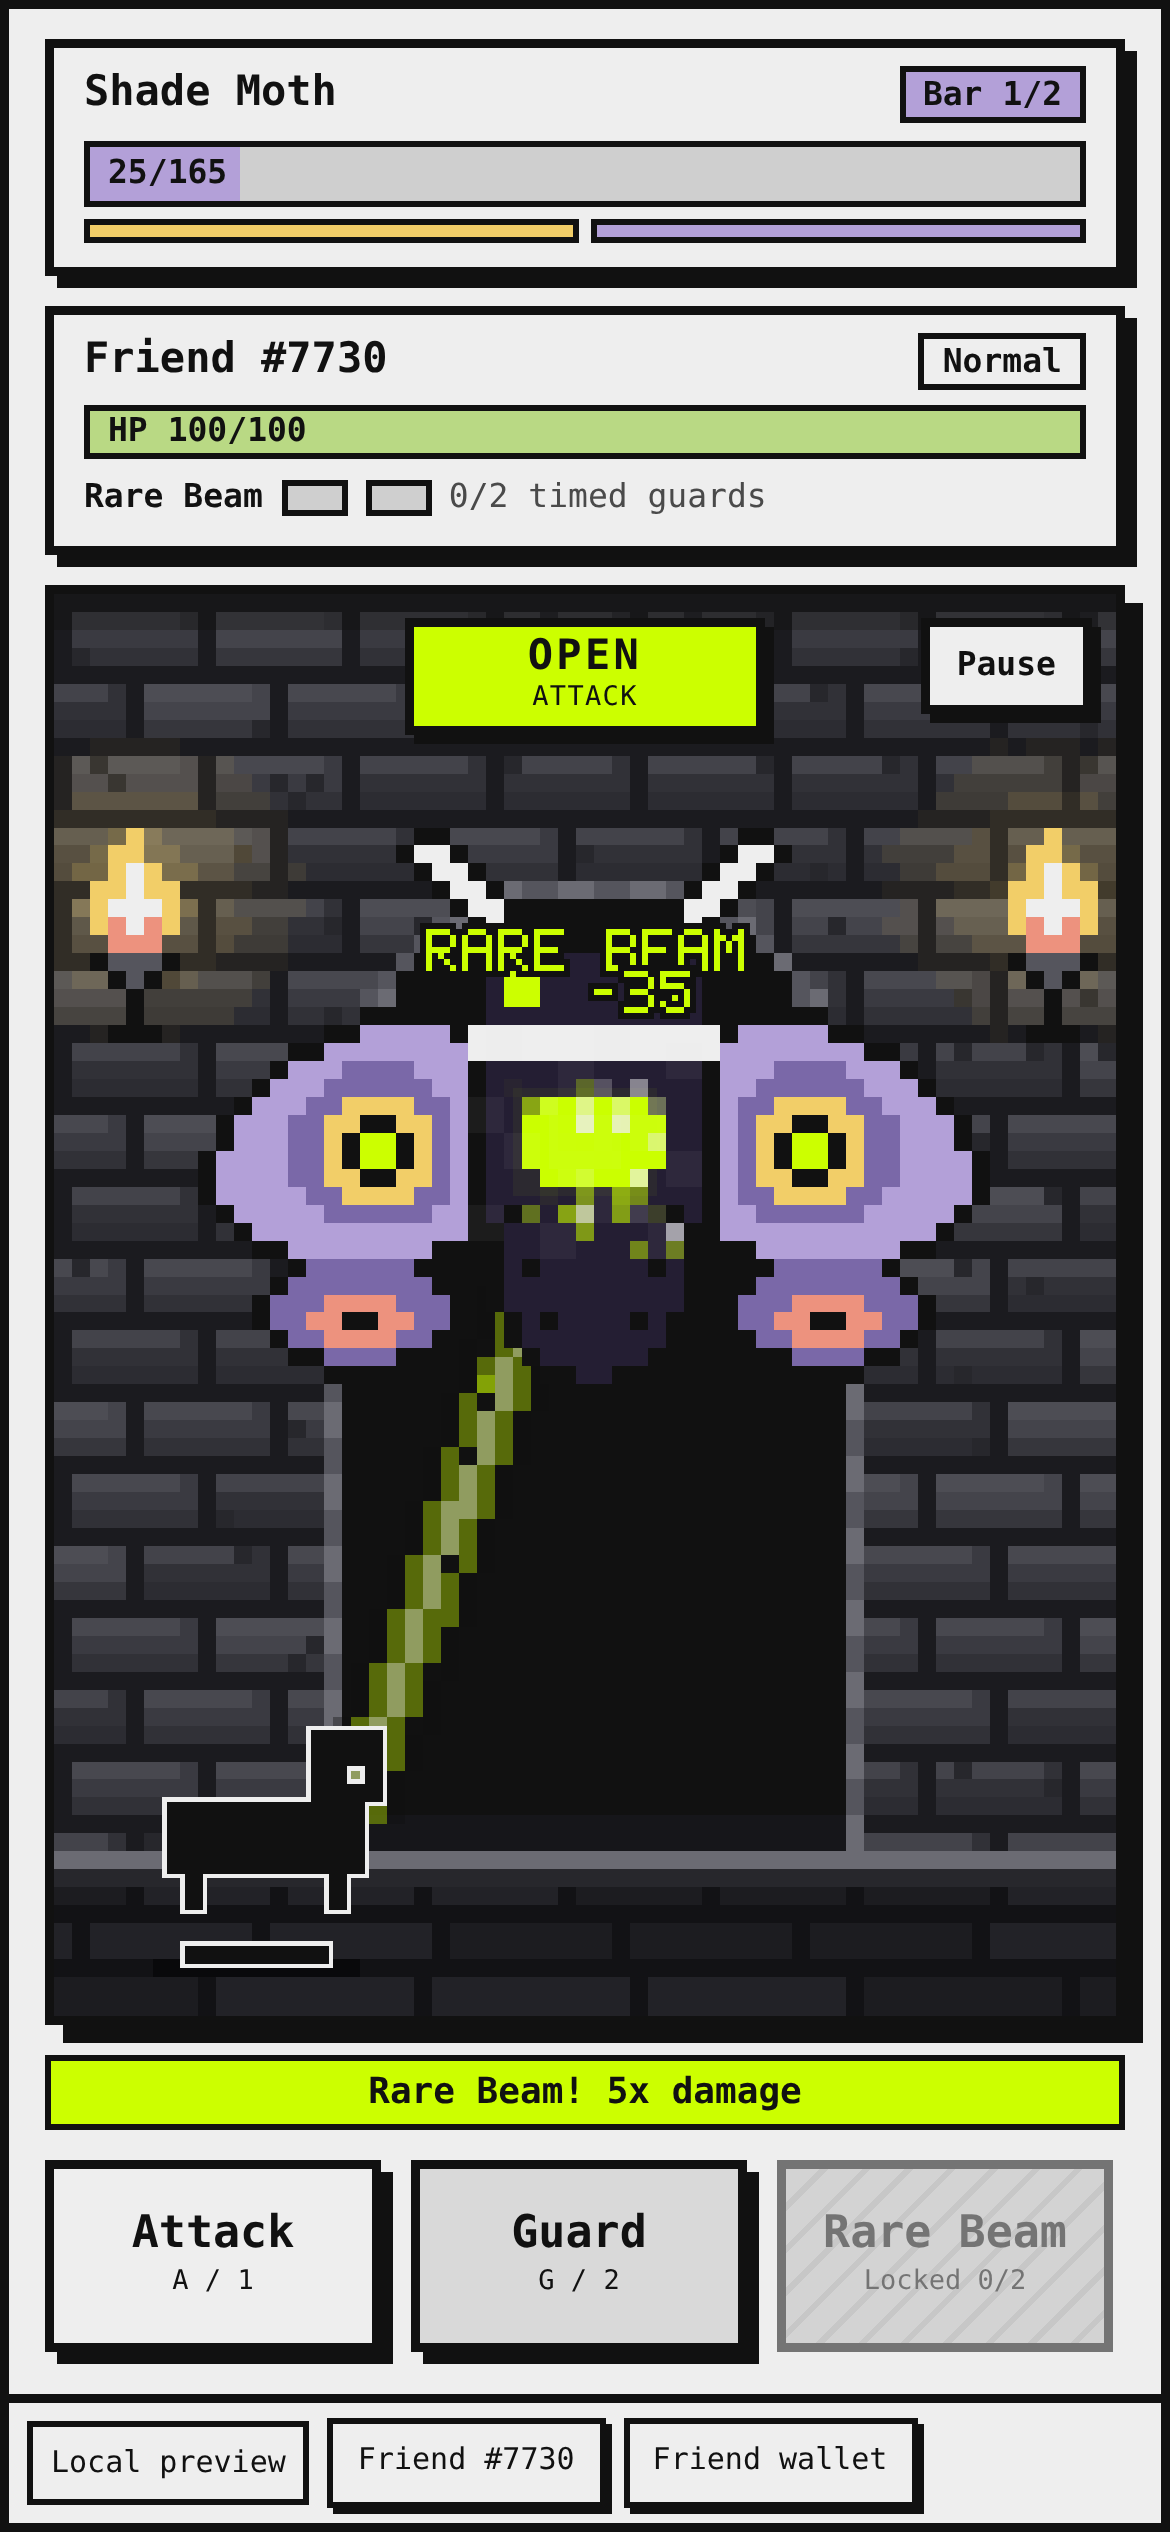
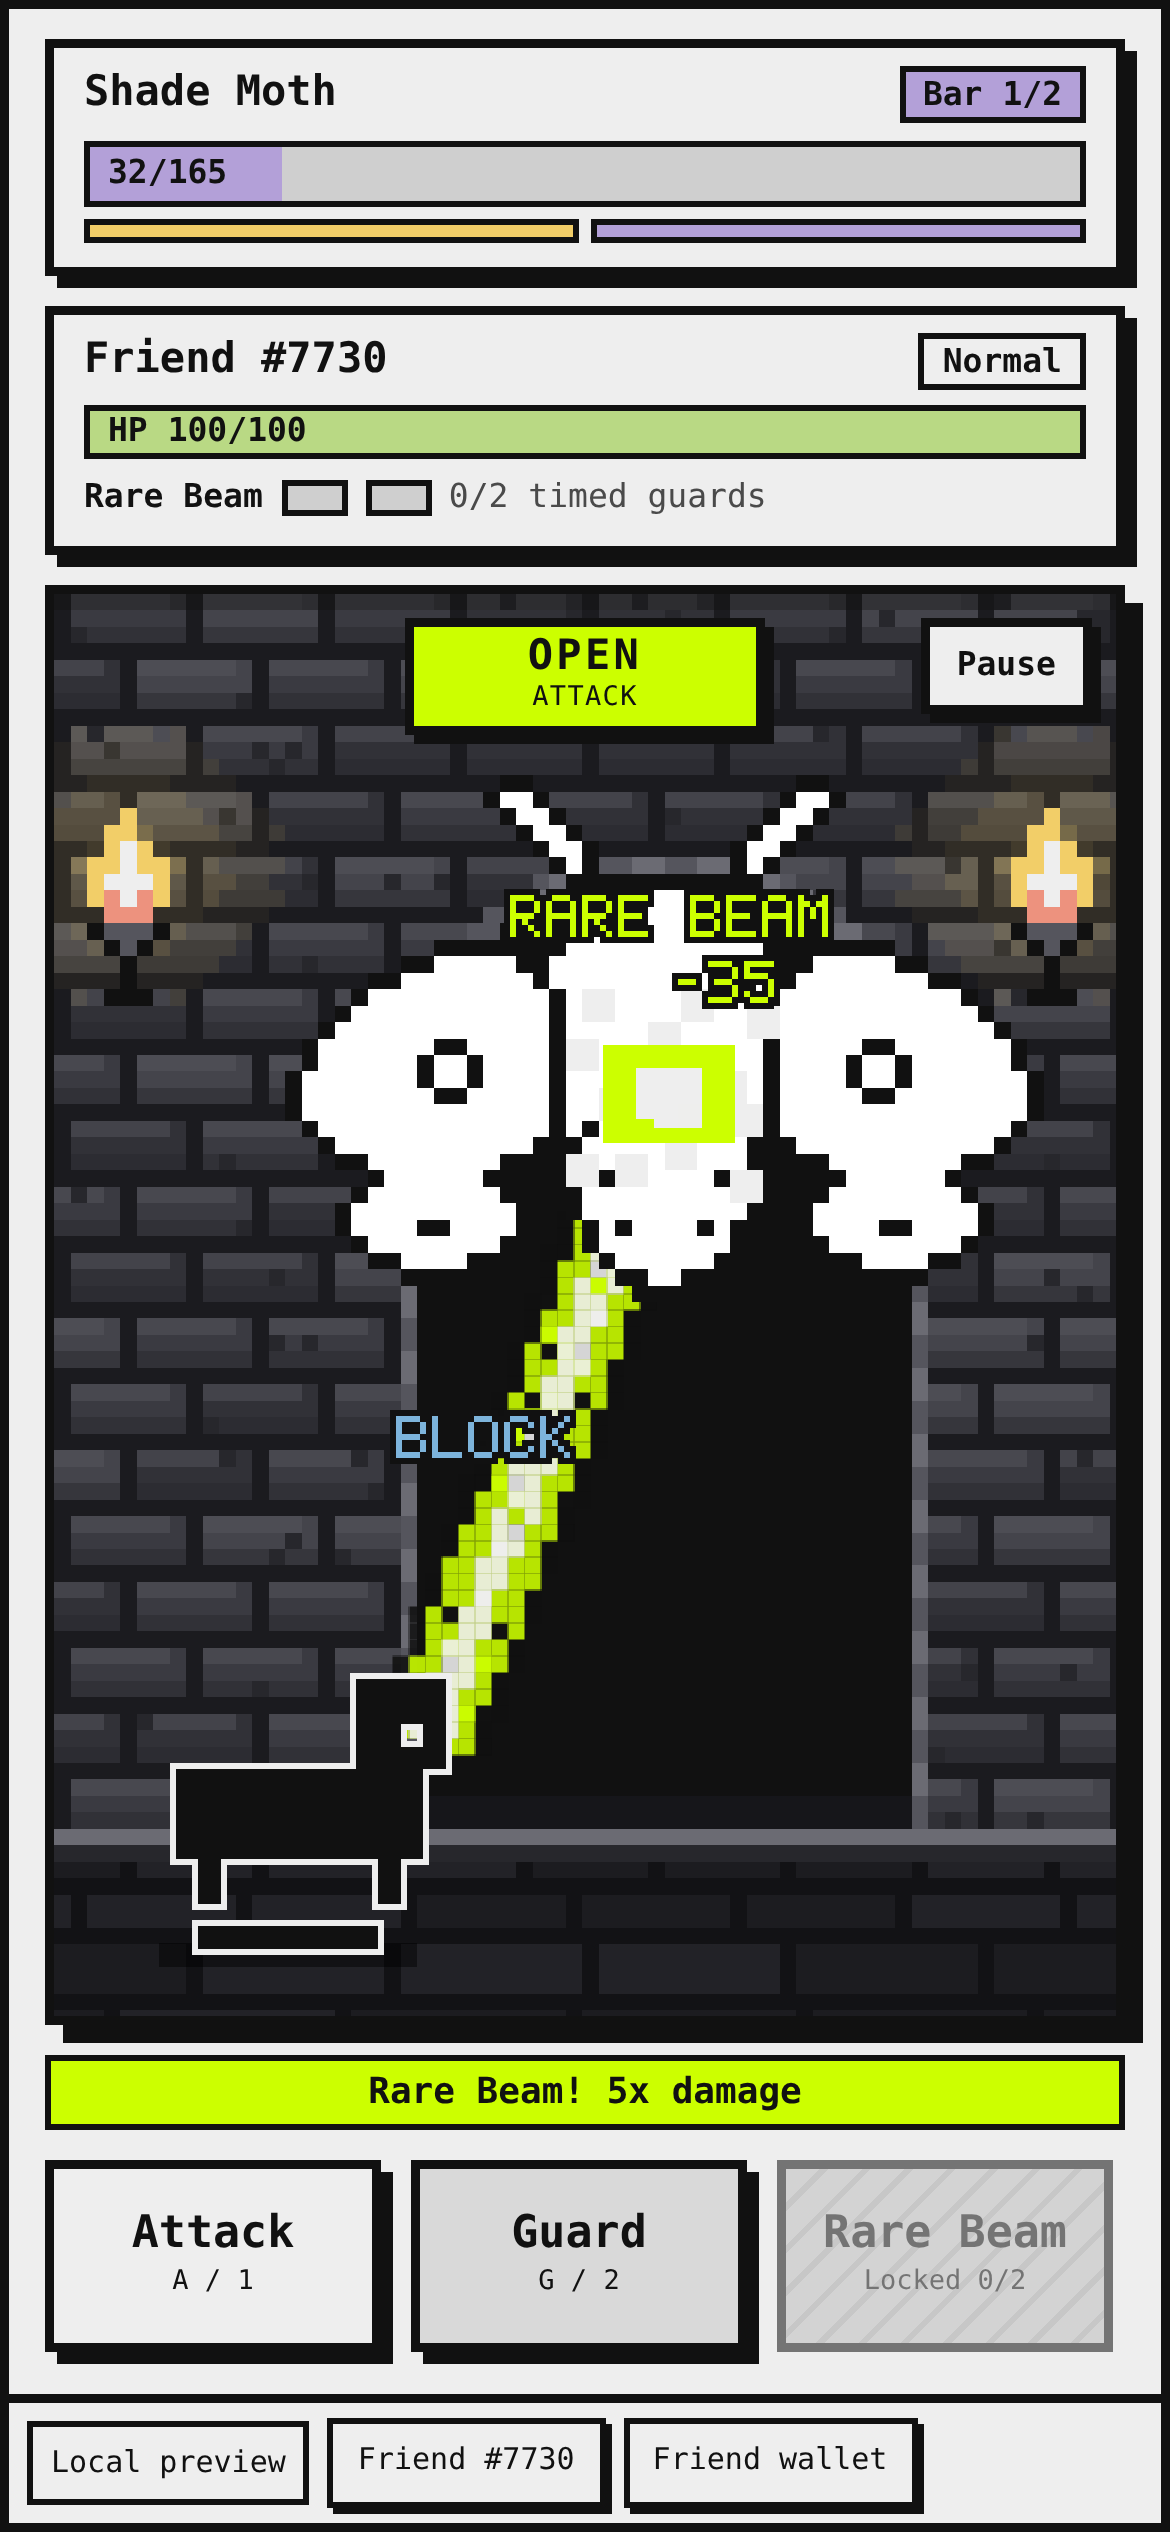
Update draft: Character Spotlight polish + screenshots + Pages URL

diff --git a/submissions/dungeon-raid/README.md b/submissions/dungeon-raid/README.md
@@ -10,54 +10,37 @@ Fresh · [@crystalrootsllc](https://github.com/crystalrootsllc)
 Character Spotlight
 
 **What did you build?**
-A pixel-art dungeon raid: your selected Generations Friend fights **Shade Moth** with Attack / Guard / Rare Beam. Timed Guards charge Rare Beam. Clear Normal (2 bars) or Max (4 bars, optional simulated Shield Bar).
+A pixel-art dungeon raid where **your Generations Friend** (original FriendSDK art) fights Shade Moth with Attack / Guard / Rare Beam. Timed Guards charge Rare Beam. Clear Normal (2 bars) or Max (4 bars, optional simulated Shield Bar).
 
 **How does it use Rare Friends?**
-You play as your own Generations NFT with its original FriendSDK sprites. The FriendSDK runtime handles wallet connect, owned Friend selection and eligibility (Robinhood mainnet 4663, generation ≥ 1). No custom wallet UI.
+You play as your own Generations NFT with its original character artwork. FriendSDK handles wallet connect, owned Friend selection and eligibility (Robinhood mainnet 4663, generation ≥ 1).
 
 **Source code**
-[https://github.com/crystalrootsllc/dungeon-raid](https://github.com/crystalrootsllc/dungeon-raid) · FriendSDK **v0.1.2**
-
-Includes `patches/owned-friends.ts` (see Known limitations).
+[https://github.com/crystalrootsllc/dungeon-raid](https://github.com/crystalrootsllc/dungeon-raid) · FriendSDK **v0.1.2** (includes `patches/owned-friends.ts`)
 
 **Playable demo / how to run**
-- **GitHub Pages (preferred for judges):** https://crystalrootsllc.github.io/dungeon-raid-preview/
-- Tunnel mirror: https://forty-wed-truly-cancelled.trycloudflare.com
+- **GitHub Pages:** https://crystalrootsllc.github.io/dungeon-raid-preview/
+- Tunnel: https://forty-wed-truly-cancelled.trycloudflare.com
 
-Or locally (Node.js 22+): clone the source repo above into `games/familiar-care` inside a FriendSDK v0.1.2 checkout, apply the patch, then `npm ci && npm run build && npm run dev:game -- games/familiar-care`.
+Wallet: Robinhood **4663** + hardwired Generations NFT **gen ≥ 1**. Economy simulated.
 
-Wallet: Robinhood **4663** + hardwired Generations NFT **gen ≥ 1**. Purchases are simulated; no RF funding or live txs required for the preview.
-
-**Judges without a wallet / stuck on Friend loading**
-1. Prefer `friendsdk test` / mock wallet (automated fixture) from a FriendSDK checkout.
-2. Or open the preview in a mobile wallet in-app browser (MetaMask / Coinbase / Rabby) on chain 4663.
-3. Stock FriendSDK 0.1.2 discovery queries `eth_getLogs` from block 0; the public Robinhood RPC caps spans at 10M blocks, so Friend load can fail until `patches/owned-friends.ts` is applied (chunked owner-filtered history from the Generations deploy block).
+**Judges without a wallet / Friend load issues**
+Use `friendsdk test` mock wallet, or a wallet in-app browser on 4663. Stock SDK discovery can fail on the public RPC without the included owned-friends patch (chunked owner-filtered logs).
 
 **How do you play?**
-- **OPEN** (lime): Attack the moth.
-- **INCOMING** (coral): a ring closes on your Friend — Guard when it turns lime for a timed guard.
-- **Rare Beam**: unlocks after 2 timed guards; 5× Attack on OPEN (thick lime beam visual).
-- Keys: A / G / R or 1 / 2 / 3. Esc pauses.
+OPEN → Attack. INCOMING → Guard when the ring turns lime. 2 timed guards unlock Rare Beam (5×, thick lime beam). Keys A/G/R or 1/2/3.
 
 **Costs and rewards**
-Everything is **simulated** and labeled. Optional Max **Shield Bar** costs **5 RF** (`buy` / `play` / `settle`) and leaves **1 Moth Scale** redeemable for **1 RF**. Net shield cost 4 RF. Expected / max reward: 1 RF per the game.json chance schema.
+Simulated. Optional Max Shield Bar = 5 RF → 1 Moth Scale (1 RF). Net 4 RF.
 
 **What have you tested?**
-`friendsdk check`, `friendsdk test` at 960px and 390px, TypeScript check, full Normal + Max (Shield) playthrough bots, phone layout audits at 390×844 and 390×659. Automated checks use the SDK mock wallet fixture.
+friendsdk check, test @960/@390, playthrough bots, phone layout audits.
 
 **Known limitations**
-- Leaderboard is **LOCAL** / session-only (SDK sandbox blocks `localStorage`).
-- Economy is simulated only.
-- Owned-Friends discovery needs the included patch for reliable loads on the public Robinhood RPC; without it Retry may fail with the SDK owner-filtered history error.
-- Reduced-motion disables shake / flicker / flashes.
+Local/session leaderboard; simulated economy; owned-friends patch needed for stock SDK + public RPC.
 
 **Credits**
-FriendSDK v0.1.2 runtime, frame, sprites and sounds. Boss art, dungeon and combat are original to this entry. No emoji.
+FriendSDK v0.1.2 runtime/sprites/sounds. Boss/dungeon/combat original. No emoji.
 
 **Pitch**
-Timed Guard charges Rare Beam. Clear Normal or Max.
-
-**Screenshots**
-- `dungeon-title.png` — title / Normal·Max
-- `dungeon-fight.png` — Rare Beam mid-fire
-- `dungeon-victory.png` — victory + score breakdown
+Play as your Rare Friend. Timed Guard charges Rare Beam. Clear Normal or Max.
